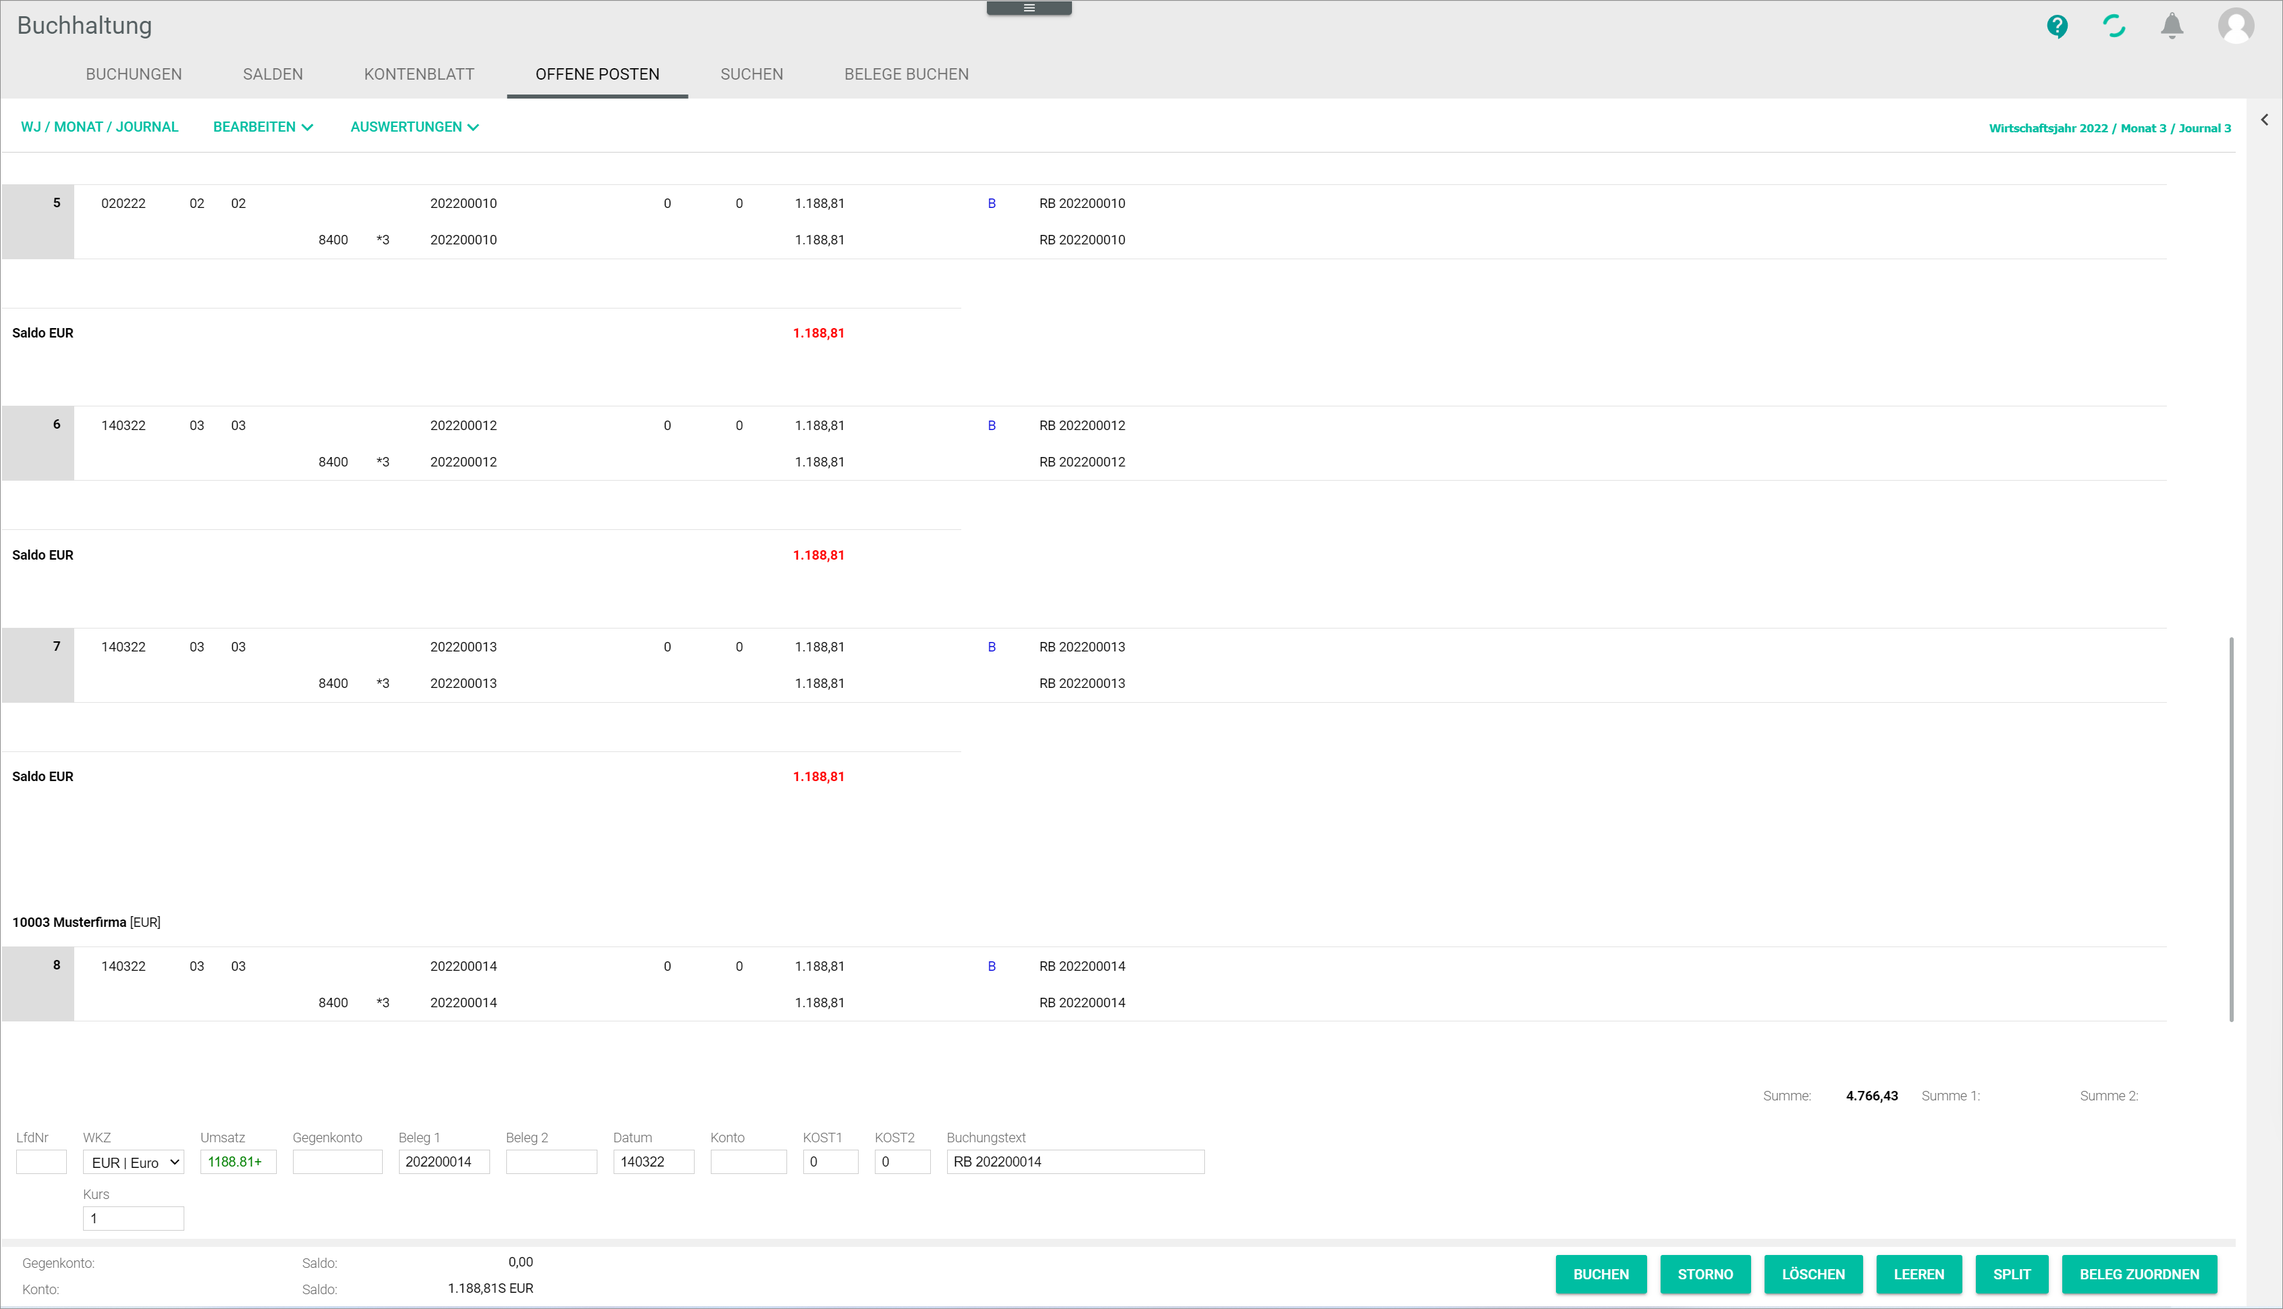
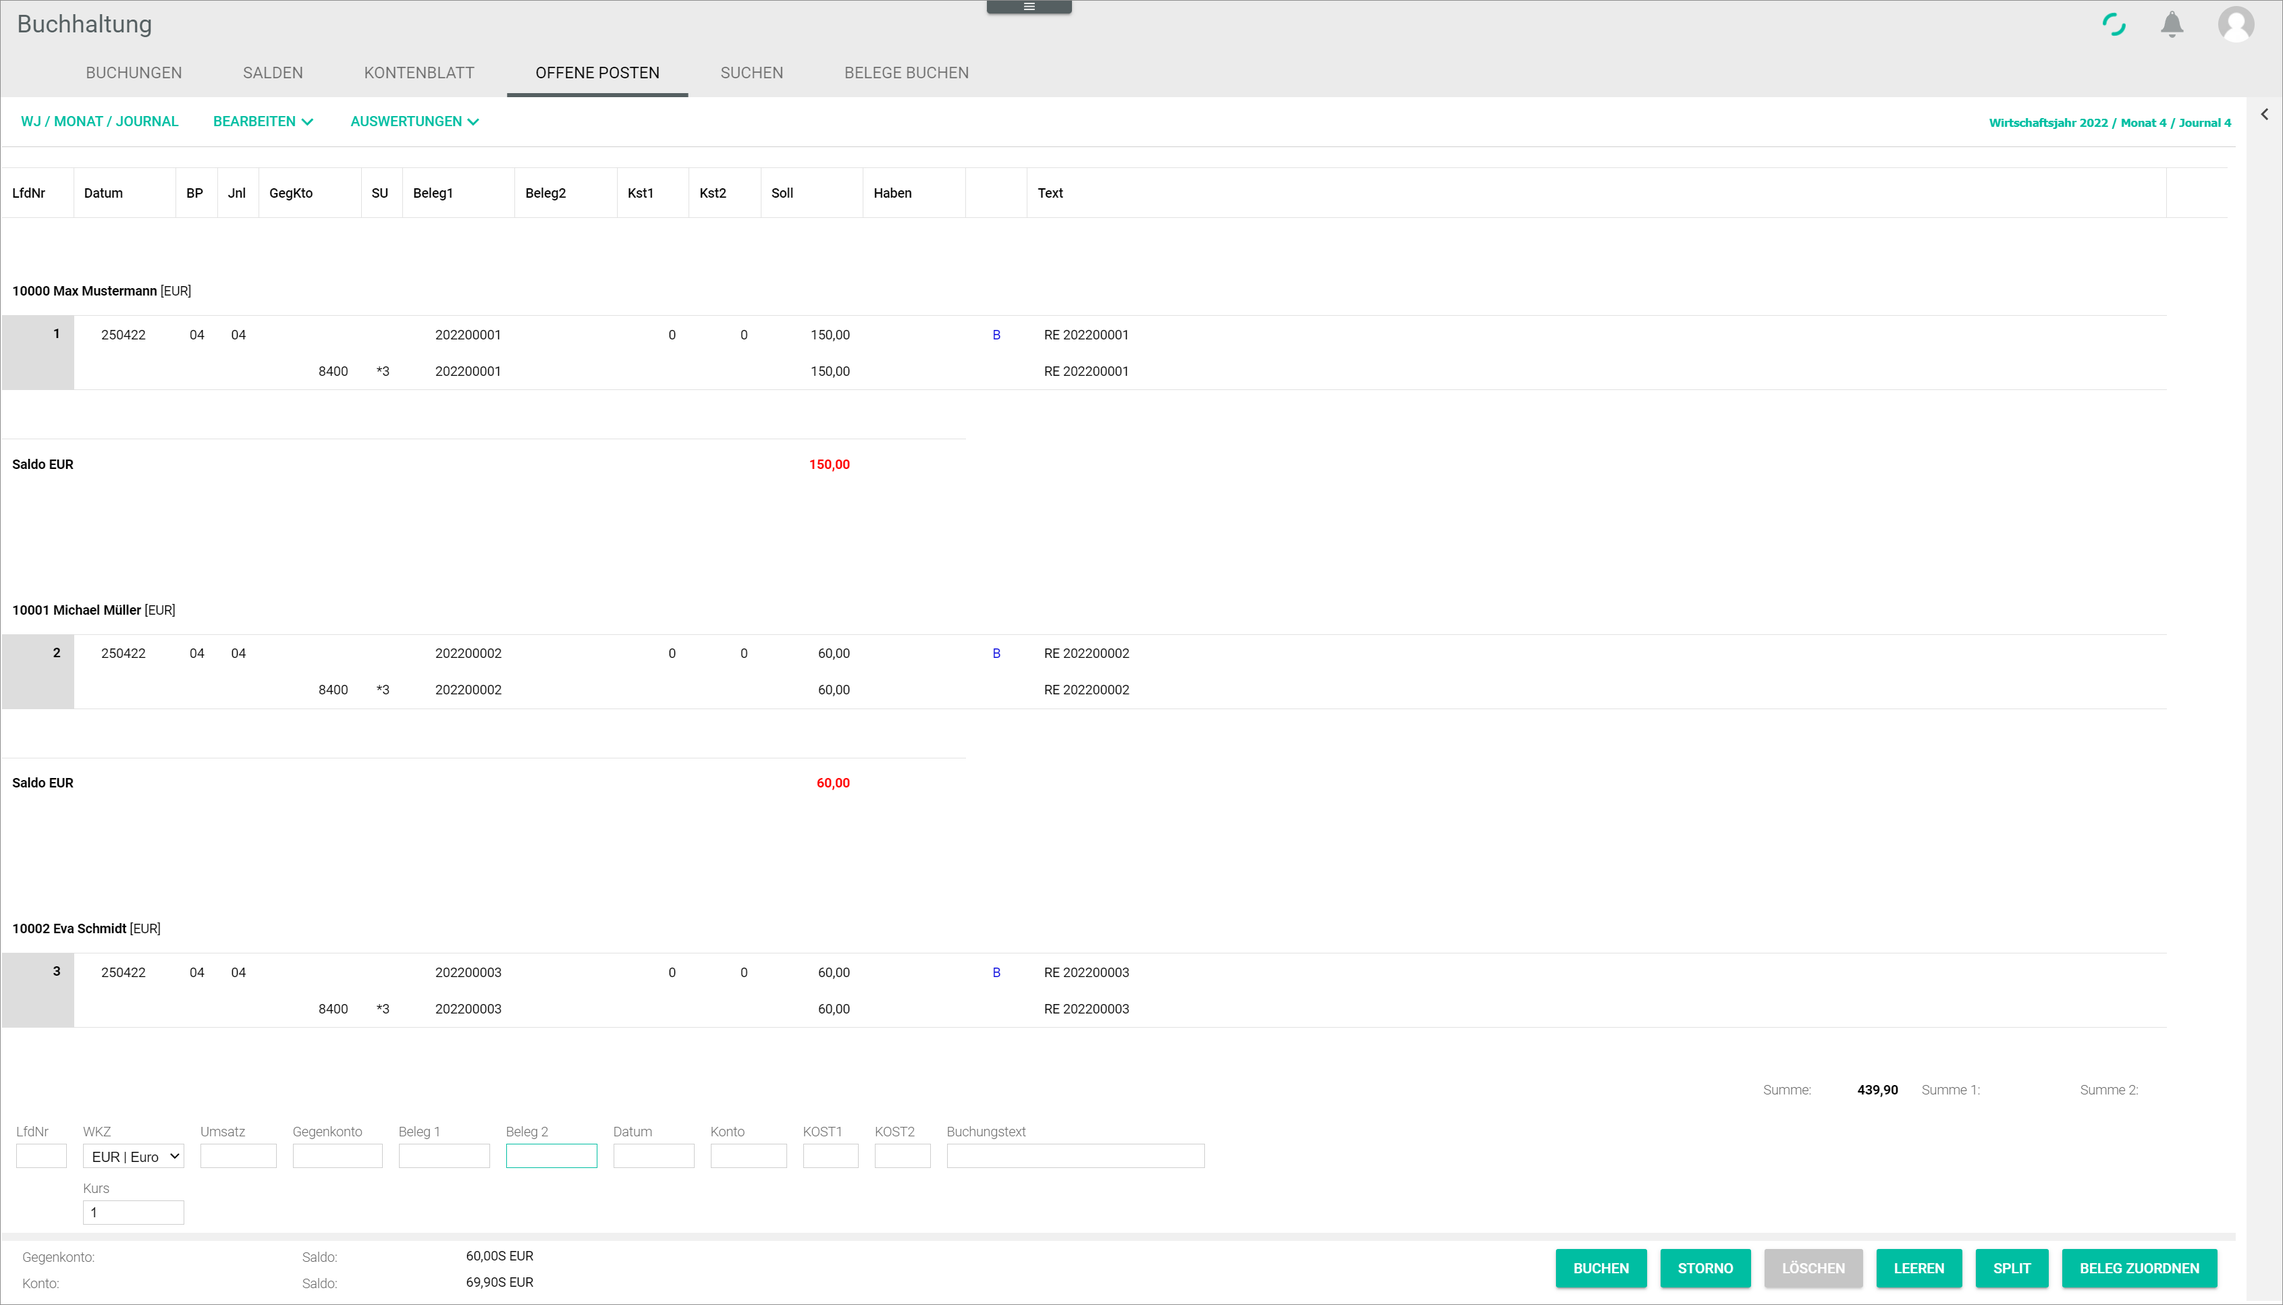
ACD-646
Screenshots added, UI description

diff --git a/RetailSuiteAccounting/UserInterface/01d_Book.md b/RetailSuiteAccounting/UserInterface/01d_Book.md
@@ -2,16 +2,16 @@
 
 # Open items
 
-The *OPEN ITEMS* tab displays any open items in the system, that is, any business transactions that have not yet been completed. The information displayed in the account sheet view is read-only.
+The *OPEN ITEMS* tab displays any open items in the system, that is, any business transactions that have not yet been completed. The information displayed in the open items view is read-only.
 
 There are two view modes:
 
 - If no account is selected, the *OPEN ITEMS* tab displays all open items in the *Accounting* module.
 - If a personal account is selected, the *OPEN ITEMS* tab displays only the open items for the selected account.
 
-> [Info] An account can be selected either by entering an  account number in the *Account* or *Contra account* field, or by clicking on a booking in the *BOOKINGS* tab.  
+An account can be selected either by entering an  account number in the *Account* or *Contra account* field, or by clicking on a booking in the *BOOKINGS* tab. For detailed information about accessing open items, see [Manage the open items](/RetailSuiteAccounting/Operation/03_ManageOpenItems.md).
 
-For detailed information about accessing open items, see [Manage the open items](/RetailSuiteAccounting/Operation/03_ManageOpenItems.md).
+
 
 ## Open items view without account selection
 
@@ -24,13 +24,133 @@ This text displays the fiscal year, month and journal currently selected. This i
 
   > [Info] If the fiscal year or the booking period need to be changed, click the [FY/MONTH/JOURNAL] button to display the select fiscal year window. For detailed information, see [Fiscal year](00a_FiscalYear.md) and [Select a fiscal year](/RetailSuiteAccounting/Operation/01_SelectFiscalYear.md).
 
--
+- ![Open](/Assets/Icons/Back02.png "[Open]") (Open)   
+Click this arrow to open the *Book extras* side bar. For detailed information about searching in the *Accounting* module, see [Search in accounting](/RetailSuiteAccounting/Operation/14_SearchAccounting.md)
+
+- *Seq. no.*  
+This column displays the sequential number.
+
+  > [Info] The booking numbers must be sequential and are added by the system automatically.
+
+- *Date*  
+This column displays the booking date. Date format is DDMMYY.
+
+- *BP*  
+This column displays the booking period (month/journal).
+
+- *Jnl*  
+This column displays the journal.
+
+- *Contra account*  
+This column displays the contra account number. For detailed information about the available accounts, see [Chart of accounts](/RetailSuiteAccounting/Integration/01_RunAccountingWizard.md#chart-of-accounts).
+
+- *Tax key*  
+This column displays the tax key linked to the contra account. Tax keys can be created, edited and deleted, if necessary. For detailed information about managing tax keys, see [Manage the tax keys](/RetailSuiteAccounting/Integration/02_ManageTaxKeys.md).
+
+- *Receipt1*  
+This column displays the receipt 1 value, usually the invoice number.
+
+  > [Info] The information provided in the *Receipt 1* field is essential, as the system identifies and groups together any subsequent bookings taking this field as reference, for example for an invoice settlement or a credit note in case of refund.
+
+- *Receipt2*  
+This column displays the receipt 2 value, which can be any other reference number, such as the order number.
+
+- *Cst1*  
+This column displays the cost unit number selected.
+
+  > [Info] This is only applicable is a cost center accounting for cost 1 has been set up. For detailed information, see [COST ACCOUNTING](XX_CostAccounting.md).
+
+  [comment]: <> (Alt-Doku: Das Feld wird beim Eingeben nur dann angesprochen, wenn eine Kostenstellenrechnung für Kost1 eingerichtet ist.)
+
+- *Cst2*  
+This column displays the cost unit number selected.
+
+  > [Info] This is only applicable is a cost center accounting for cost 2 has been set up. For more details, see [COST ACCOUNTING](XX_CostAccounting.md).
+
+- *Debit*  
+This column displays the debit amount of the selected account.
+
+- *Credit*  
+This column displays the credit amount of the selected account.
+
+- *(Unnamed column)*  
+This column displays a ![B](/Assets/Icons/Beleg.png "[B]") icon if a receipt has been linked to the booking. When clicking on the icon, the linked receipt is displayed in the *Attached document* window. For detailed information, see [Attached document](#attached-document).
+
+[comment]: <> (Comment on Bug file -> suggestion to add a name to column)
+
+- *Text*  
+This column displays the booking text, if any has been entered.
+
+- *(Account number) (account name) [currency]*  
+This field introduces a list of all existing open items for this account.
+
+- *Balance (currency)*  
+This field displays the balance for each existing open item in the preceding account.  
 
 
+- *Amount (Amount 1 - Amount 2)*  
+The information provided in these fields refers to the bookings list and is not related to the open items view. For detailed information, see [BOOKINGS](01a_Book.md).
 
-> [Info] If there are no open items, a blank tab is displayed.
 
- ![No open items](/Assets/Screenshots/RetailSuiteAccounting/Book/OpenItems/NoOPOS.png "[No open items]")
+In the *Open items* tab, the entry line serves the only purpose of selecting an account, if no booking is selected in the *Bookings* tab.
+
+> [Info] If a booking is selected in the *Bookings* tab, the booking details are displayed in the entry line. The open items of the account selected in the *Account* field are displayed in the open items view.
+
+[comment]: <> (Work in progress! To be completed/modified! Screenshots should probably be changed to display empty entry line!)
+
+  - *Seq. no.*  
+  This field is empty.
+
+  - *Currency code*  
+  This field displays the selected basic currency.
+
+  - *Exchange rate*  
+  This field displays the exchange of the selected basic currency.
+
+  - *Turnover*  
+  This field is empty.
+
+  - *Contra account*  
+  Enter a personal account number to display its open items. It is possible to enter both a customer or a supplier account number. A valid range for personal account numbers (10000-69999 for customers and 70000-99999 for suppliers) is predefined in the system.
+
+    > [Info] Customer and supplier personal accounts can be created, edited and deleted. For detailed information, see [Manage the customer/supplier](/RetailSuiteAccounting/Integration/05_ManageCustomerSupplier.md).
+
+  - *Receipt 1*  
+  This field is empty.
+
+  - *Receipt 2*  
+  This field is empty.
+
+  - *Date*  
+  The first day of the selected month is displayed.
+
+  - *Account*   
+  Enter a personal account number to display its open items. It is possible to enter both a customer or a supplier account number. A valid range for personal account numbers (10000-69999 for customers and 70000-99999 for suppliers) is predefined in the system.
+
+    > [Info] Customer and supplier personal accounts can be created, edited and deleted. For detailed information, see [Manage the customer/supplier](/RetailSuiteAccounting/Integration/05_ManageCustomerSupplier.md).
+
+  - *COST1*  
+  This field is empty.
+
+  - *COST2*  
+  This field is empty.
+
+  - *Booking text*  
+  This field is empty.
+
+
+  When a booking or an account is selected, the account/contra account details, as well as their current balances, are displayed under the entry line. The information provided in these fields is read-only.
+
+  - *Contra account*  
+  This field displays the selected contra account. This field is read-only.
+
+  - *Account*  
+  This field displays the selected account. This field is read-only.
+
+  - *Balance (amount)H/S (currency)*  
+  This field displays the current balance of the corresponding account. H stands for credit. S stands for debit.
+
+The buttons on the bottom right corner have no specific function in the open items view. For detailed information, see [BOOKINGS](01a_Book.md).
 
 
 
@@ -46,17 +166,26 @@ This text displays the fiscal year, month and journal currently selected. This i
   > [Info] If the fiscal year or the booking period need to be changed, click the [FY/MONTH/JOURNAL] button to display the select fiscal year window. For detailed information, see [Fiscal year](00a_FiscalYear.md) and [Select a fiscal year](/RetailSuiteAccounting/Operation/01_SelectFiscalYear.md).
 
 
-- *Scroll*
+- ![Previous](/Assets/Icons/Previous.png "[Previous]")  *Scroll* ![Next](/Assets/Icons/Next.png "[Next]")  
+Your can use the arrow buttons to scroll through the available accounts to search for a specific one. Alternatively, you can enter an account number in the entry line.
 
+
+- *Seq. no.*  
+This column displays the sequential number.
+
+  > [Info] The booking numbers must be sequential and are added by the system automatically.
 
 - *Date*  
 This column displays the booking date. Date format is DDMMYY.
 
 - *BP*  
-This column displays the booking period (month).
+This column displays the booking period (month/journal).
 
 - *Jnl*  
 This column displays the journal.
+
+- *M*  
+This column displays a checkbox to select the open items to be cleared manually, if necessary.
 
 - *Contra account*  
 This column displays the contra account number. For detailed information about the available accounts, see [Chart of accounts](/RetailSuiteAccounting/Integration/01_RunAccountingWizard.md#chart-of-accounts).
@@ -64,20 +193,22 @@ This column displays the contra account number. For detailed information about t
 - *Tax key*  
 This column displays the tax key linked to the contra account. Tax keys can be created, edited and deleted, if necessary. For detailed information about managing tax keys, see [Manage the tax keys](/RetailSuiteAccounting/Integration/02_ManageTaxKeys.md).
 
-- *Receipt 1*  
+- *Receipt1*  
 This column displays the receipt 1 value, usually the invoice number.
 
   > [Info] The information provided in the *Receipt 1* field is essential, as the system identifies and groups together any subsequent bookings taking this field as reference, for example for an invoice settlement or a credit note in case of refund.
 
-- *Receipt 2*  
+- *Receipt2*  
 This column displays the receipt 2 value, which can be any other reference number, such as the order number.
 
-- *Cost 1*  
+- *Cst1*  
 This column displays the cost unit number selected.
 
   > [Info] This is only applicable is a cost center accounting for cost 1 has been set up. For detailed information, see [COST ACCOUNTING](XX_CostAccounting.md).
 
-- *Cost 2*  
+  [comment]: <> (Alt-Doku: Das Feld wird beim Eingeben nur dann angesprochen, wenn eine Kostenstellenrechnung für Kost1 eingerichtet ist.)
+
+- *Cst2*  
 This column displays the cost unit number selected.
 
   > [Info] This is only applicable is a cost center accounting for cost 2 has been set up. For more details, see [COST ACCOUNTING](XX_CostAccounting.md).
@@ -89,25 +220,103 @@ This column displays the debit amount of the selected account.
 This column displays the credit amount of the selected account.
 
 - *(Unnamed column)*  
-This column displays a ![B](/Assets/Icons/Beleg.png "[B]") icon if a receipt has been linked to the booking. When clicking on the icon, the linked receipt is displayed in the *Attached document* window. For detailed information, see [Attached document](01a_Book.md#attached-document).
+This column displays a ![B](/Assets/Icons/Beleg.png "[B]") icon if a receipt has been linked to the booking. When clicking on the icon, the linked receipt is displayed in the *Attached document* window. For detailed information, see [Attached document](#attached-document).
+
+[comment]: <> (Comment on Bug file -> suggestion to add a name to column)
 
 - *Text*  
 This column displays the booking text, if any has been entered.
 
-- *Account number - account name [currency]*  
-
+- *(Account number) (account name) [currency]*  
+This field introduces a list of all existing open items for this account.
 
 - *Balance (currency)*  
-this field displays the balance of the selected account and its currency.
+This field displays the balance for each existing open item in the preceding account.    
 
 
 - *Standard open items view*  
-Click this radio button to display
+Click this radio button to display all open items for this account.
 
 - *Show manually cleared open items*  
-Click this radio button to display
+Click this radio button to display only the manually cleared open items for this account.
 
 
-- [CLEAR MANUALLY]
+- [CLEAR MANUALLY]  
+Click this button to clear an open item manually. For detailed information about managing open items, see [Access the open items for an account](/RetailSuiteAccounting/Operation/03_ManageOpenItems.md#access-the-open-items-for-an-account).
 
-- [CANCEL CLEARING]
+- [CANCEL CLEARING]  
+Click this button to reverse manually cleared items.
+
+  > [Info] This button is displayed when the *Show manually cleared open items* radio button selected. It is also displayed in the Standard open items view (*Standard open items view* radio button selected), if an open item has been cleared manually).
+
+
+
+- *Amount (Amount 1 - Amount 2)*  
+The information provided in these fields refers to the bookings list and is not related to the open items view. For detailed information, see [BOOKINGS](01a_Book.md).
+
+
+
+In the *Open items* tab, the entry line serves the only purpose of selecting an account or changed to account to be displayed.
+
+[comment]: <> (Work in progress! To be completed/modified! Screenshots should probably be changed to display empty entry line or text adapted, e.g., "empty or irrelevant/unrelated"...)
+
+  - *Seq. no.*  
+  This field is empty.
+
+  - *Currency code*  
+  This field displays the selected basic currency.
+
+  - *Exchange rate*  
+  This field displays the exchange of the selected basic currency.
+
+  - *Turnover*  
+  This field is empty.
+
+  - *Contra account*  
+  This field displays the account currently selected. Enter another personal account number to display its open items. It is possible to enter both a customer or a supplier account number. A valid range for personal account numbers (10000-69999 for customers and 70000-99999 for suppliers) is predefined in the system.
+
+    > [Info] Customer and supplier personal accounts can be created, edited and deleted. For detailed information, see [Manage the customer/supplier](/RetailSuiteAccounting/Integration/05_ManageCustomerSupplier.md).
+
+  - *Receipt 1*  
+  This field is empty.
+
+  - *Receipt 2*  
+  This field is empty.
+
+  - *Date*  
+  The first day of the selected month is displayed.
+
+  - *Account*   
+  This field displays the account currently selected. Enter another personal account number to display its open items. It is possible to enter both a customer or a supplier account number. A valid range for personal account numbers (10000-69999 for customers and 70000-99999 for suppliers) is predefined in the system.
+
+    > [Info] Customer and supplier personal accounts can be created, edited and deleted. For detailed information, see [Manage the customer/supplier](/RetailSuiteAccounting/Integration/05_ManageCustomerSupplier.md).
+
+  - *COST1*  
+  This field is empty.
+
+  - *COST2*  
+  This field is empty.
+
+  - *Booking text*  
+  This field is empty.
+
+
+  When an account is selected, the account/contra account details, as well as their current balances, are displayed under the entry line. The information provided in these fields is read-only.
+
+  - *Contra account*  
+  This field displays the selected contra account. This field is read-only.
+
+  - *Account*  
+  This field displays the selected account. This field is read-only.
+
+  - *Balance (amount)H/S (currency)*  
+  This field displays the current balance of the corresponding account. H stands for credit. S stands for debit.
+
+The buttons on the bottom right corner have no specific function in the open items view. For detailed information, see [BOOKINGS](01a_Book.md).
+
+
+## No open items view
+
+If there are no open items, a blank tab and the message "No open items exist" is displayed.
+
+ ![No open items](/Assets/Screenshots/RetailSuiteAccounting/Book/OpenItems/NoOPOS.png "[No open items]")
